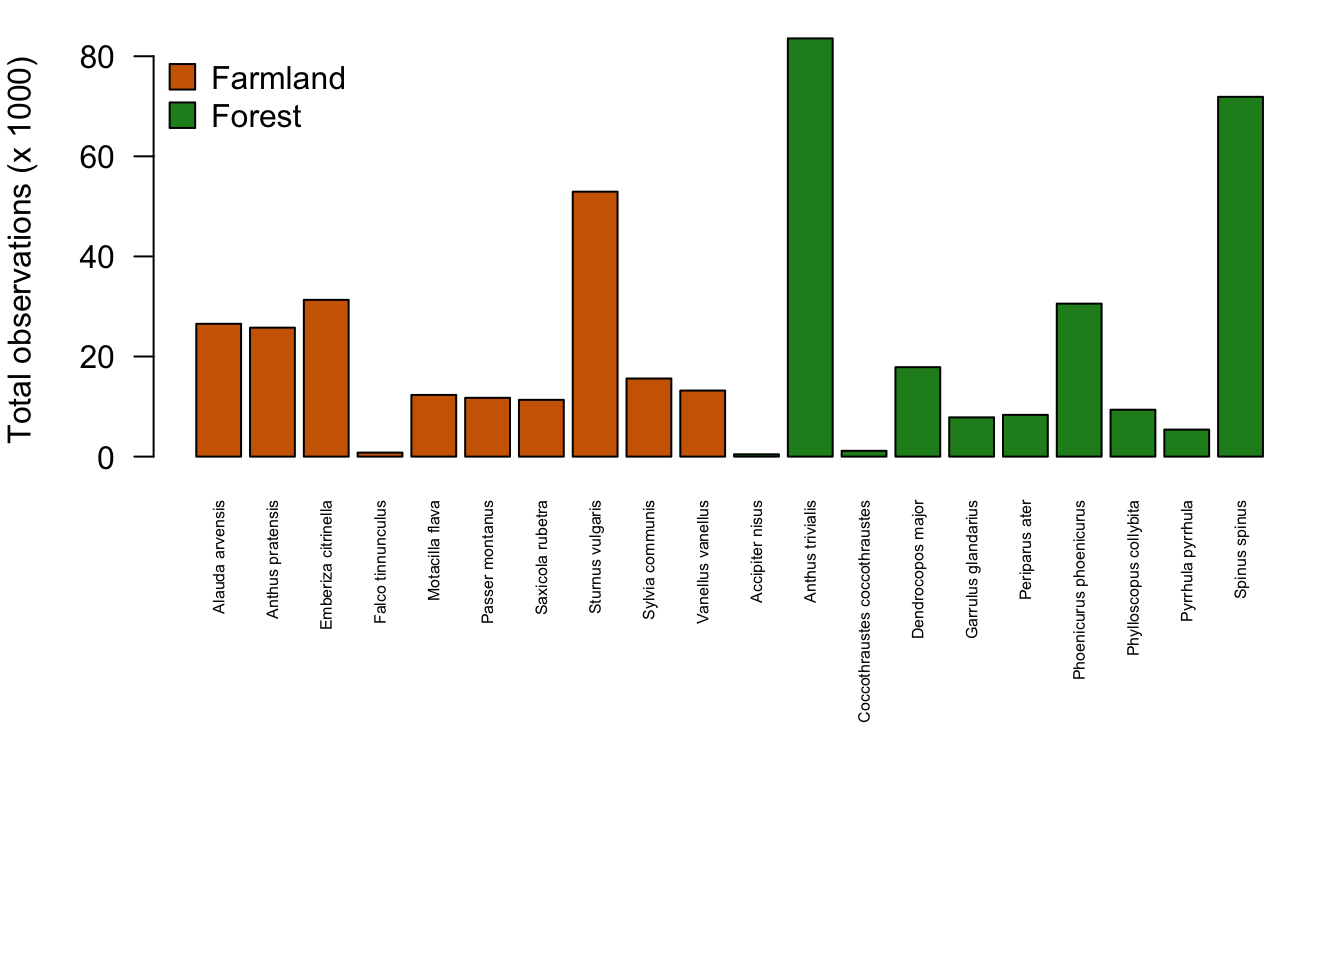
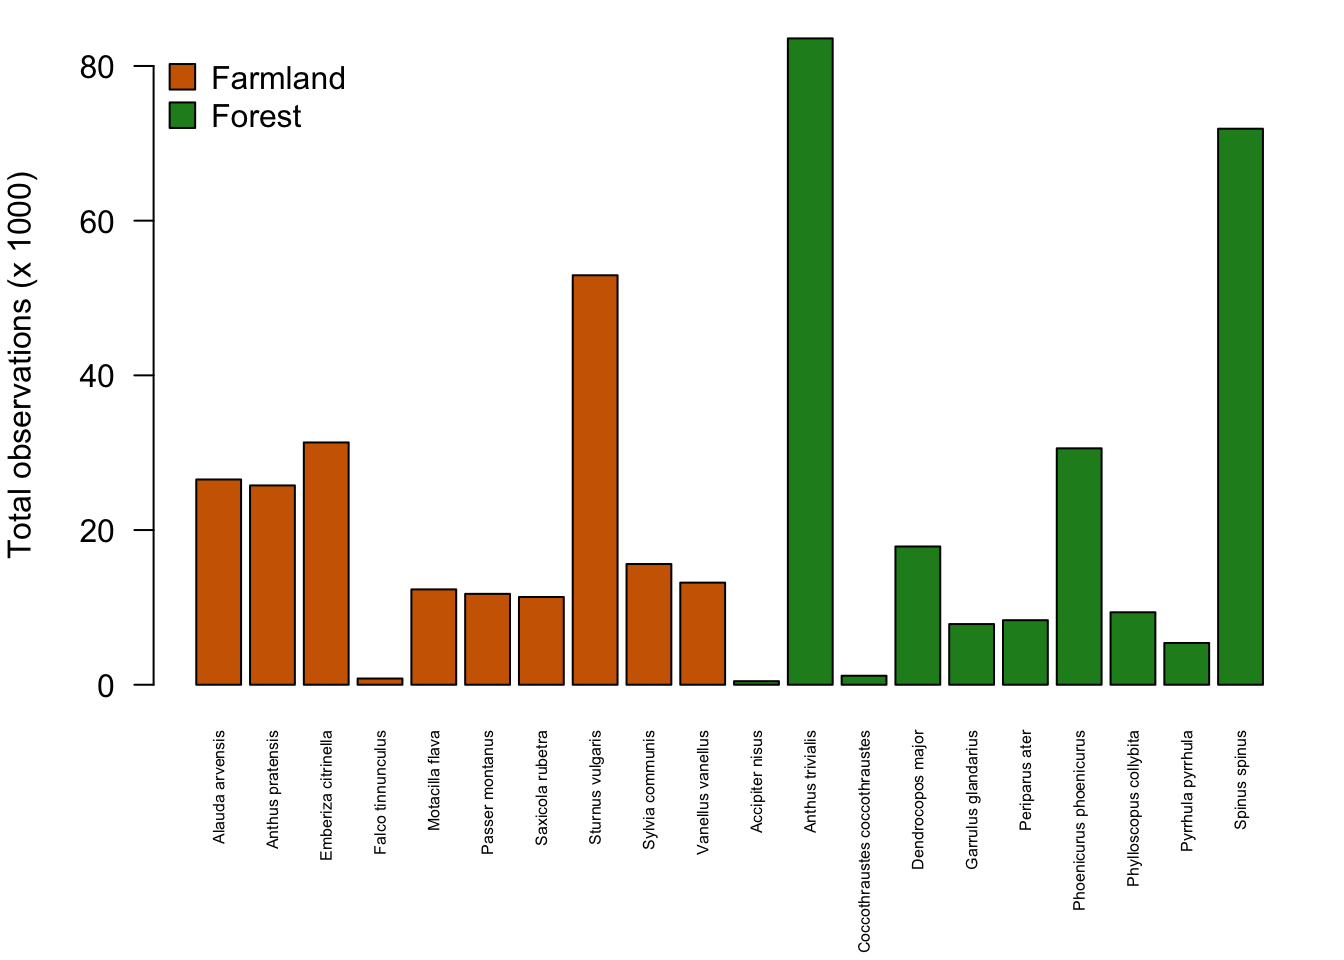
graphics change

diff --git a/docs/Bird_survey.html b/docs/Bird_survey.html
@@ -482,7 +482,7 @@ $(document).ready(function () {
 <a class="sourceLine" id="cb10-2" data-line-number="2">species.data<span class="op">$</span>col &lt;-<span class="st"> </span><span class="kw">ifelse</span>(species.data<span class="op">$</span>habitat <span class="op">%in%</span><span class="st"> &quot;Farms&quot;</span>, <span class="st">&quot;darkorange3&quot;</span>, <span class="st">&quot;forestgreen&quot;</span>)</a>
 <a class="sourceLine" id="cb10-3" data-line-number="3"></a>
 <a class="sourceLine" id="cb10-4" data-line-number="4"><span class="co"># Set figure margins for plotting</span></a>
-<a class="sourceLine" id="cb10-5" data-line-number="5"><span class="kw">par</span>(<span class="dt">mar=</span><span class="kw">c</span>(<span class="dv">13</span>,<span class="dv">4</span>,<span class="dv">1</span>,<span class="dv">1</span>))</a>
+<a class="sourceLine" id="cb10-5" data-line-number="5"><span class="kw">par</span>(<span class="dt">mar=</span><span class="kw">c</span>(<span class="dv">7</span>,<span class="dv">4</span>,<span class="dv">1</span>,<span class="dv">1</span>))</a>
 <a class="sourceLine" id="cb10-6" data-line-number="6"></a>
 <a class="sourceLine" id="cb10-7" data-line-number="7"><span class="co"># Create a barplot of total counts per species</span></a>
 <a class="sourceLine" id="cb10-8" data-line-number="8"><span class="kw">barplot</span>(species.data<span class="op">$</span>total.count<span class="op">/</span><span class="dv">1000</span>, </a>
